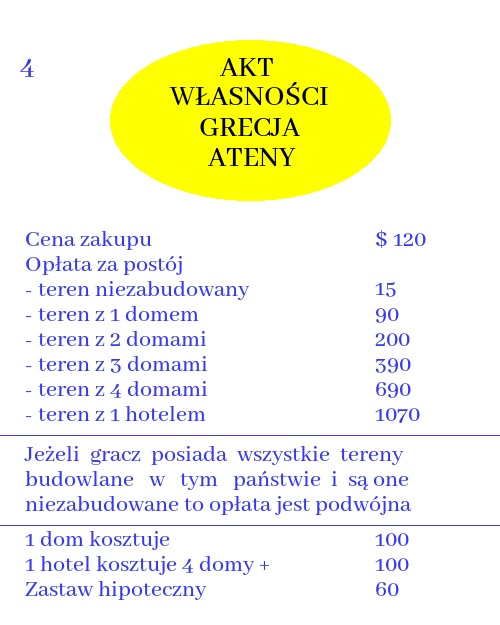
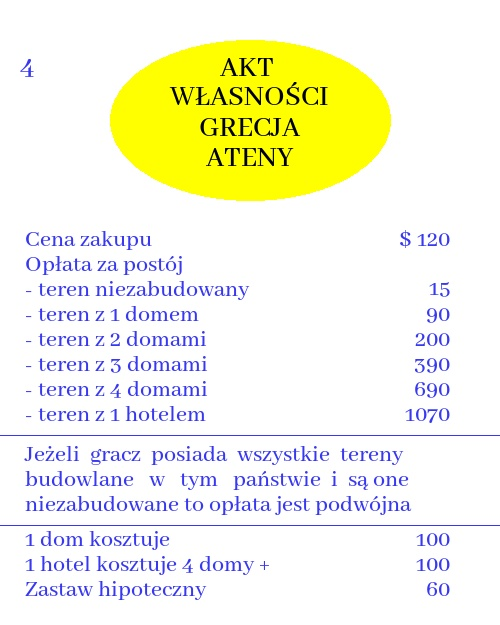
upup

diff --git a/card.py b/card.py
@@ -41,10 +41,8 @@ class Card:
         draw.text((20, 50), "{}".format(self.numer), font=font, fill=color)
         draw.text((220, 50), "AKT", font=font, fill=self.text_kolor)
         draw.text((170, 80), "WŁASNOŚCI", font=font, fill=self.text_kolor)
-        text_width = int(cv2.getTextSize("{}".format(self.nazwa_panstwa).upper(), 0, 0.8, 0)[0][0] / 2)
-        draw.text((245-text_width, 110), "{}".format(self.nazwa_panstwa).upper(), font=font, fill=self.text_kolor)
-        text_width = int(cv2.getTextSize("{}".format(self.nazwa_pola).upper(), 0, 0.8, 0)[0][0] / 2)
-        draw.text((245 - text_width, 140), "{}".format(self.nazwa_pola).upper(), font=font, fill=self.text_kolor)
+        draw.text((int(250 - font.getsize("{}".format(self.nazwa_panstwa).upper())[0]/2), 110), "{}".format(self.nazwa_panstwa).upper(), font=font, fill=self.text_kolor)
+        draw.text((int(250 - font.getsize("{}".format(self.nazwa_pola).upper())[0]/2), 140), "{}".format(self.nazwa_pola).upper(), font=font, fill=self.text_kolor)
 
         draw.text((25, 225), "Cena zakupu", font=font2, fill=color)
         draw.text((25, 250), "Opłata za postój", font=font2, fill=color)
@@ -55,13 +53,13 @@ class Card:
         draw.text((25, 375), "- teren z 4 domami", font=font2, fill=color)
         draw.text((25, 400),  "- teren z 1 hotelem", font=font2, fill=color)
 
-        draw.text((375, 225), "$ {}".format(self.cena), font=font2, fill=color)
-        draw.text((375, 275), "{}".format(self.placa_niezabudowany), font=font2, fill=color)
-        draw.text((375, 300), "{}".format(self.placa1dom), font=font2, fill=color)
-        draw.text((375, 325), "{}".format(self.placa2dom), font=font2, fill=color)
-        draw.text((375, 350), "{}".format(self.placa3dom), font=font2, fill=color)
-        draw.text((375, 375), "{}".format(self.placa4dom), font=font2, fill=color)
-        draw.text((375, 400), "{}".format(self.placa5dom), font=font2, fill=color)
+        draw.text((450 - font2.getsize("$ {}".format(self.cena))[0], 225), "$ {}".format(self.cena), font=font2, fill=color)
+        draw.text((450 - font2.getsize("{}".format(self.placa_niezabudowany))[0], 275), "{}".format(self.placa_niezabudowany), font=font2, fill=color)
+        draw.text((450 - font2.getsize("{}".format(self.placa1dom))[0], 300), "{}".format(self.placa1dom), font=font2, fill=color)
+        draw.text((450 - font2.getsize("{}".format(self.placa2dom))[0], 325), "{}".format(self.placa2dom), font=font2, fill=color)
+        draw.text((450 - font2.getsize("{}".format(self.placa3dom))[0], 350), "{}".format(self.placa3dom), font=font2, fill=color)
+        draw.text((450 - font2.getsize("{}".format(self.placa4dom))[0], 375), "{}".format(self.placa4dom), font=font2, fill=color)
+        draw.text((450 - font2.getsize("{}".format(self.placa5dom))[0], 400), "{}".format(self.placa5dom), font=font2, fill=color)
 
         draw.text((25, 440), "Jeżeli  gracz  posiada  wszystkie  tereny", font=font2, fill=color)
         draw.text((25, 465), "budowlane   w   tym   państwie  i  są one", font=font2, fill=color)
@@ -71,13 +69,13 @@ class Card:
         draw.text((25, 550), "1 hotel kosztuje 4 domy +", font=font2, fill=color)
         draw.text((25, 575), "Zastaw hipoteczny", font=font2, fill=color)
 
-        draw.text((375, 525), "{}".format(self.koszt_domku), font=font2, fill=color)
-        draw.text((375, 550), "{}".format(self.koszt_domku), font=font2, fill=color)
-        draw.text((375, 575), "{}".format(int(self.cena / 2)), font=font2, fill=color)
+        draw.text((450 - font2.getsize("{}".format(self.koszt_domku))[0], 525), "{}".format(self.koszt_domku), font=font2, fill=color)
+        draw.text((450 - font2.getsize("{}".format(self.koszt_domku))[0], 550), "{}".format(self.koszt_domku), font=font2, fill=color)
+        draw.text((450 - font2.getsize("{}".format(int(self.cena / 2)))[0], 575), "{}".format(int(self.cena / 2)), font=font2, fill=color)
         img = np.array(img_pil)
 
         cv2.line(img, (0, 435), (500, 435), color)
         cv2.line(img, (0, 525), (500, 525), color)
-
+        print(font.getsize("Zastaw hipoteczny"))
 
         return img
